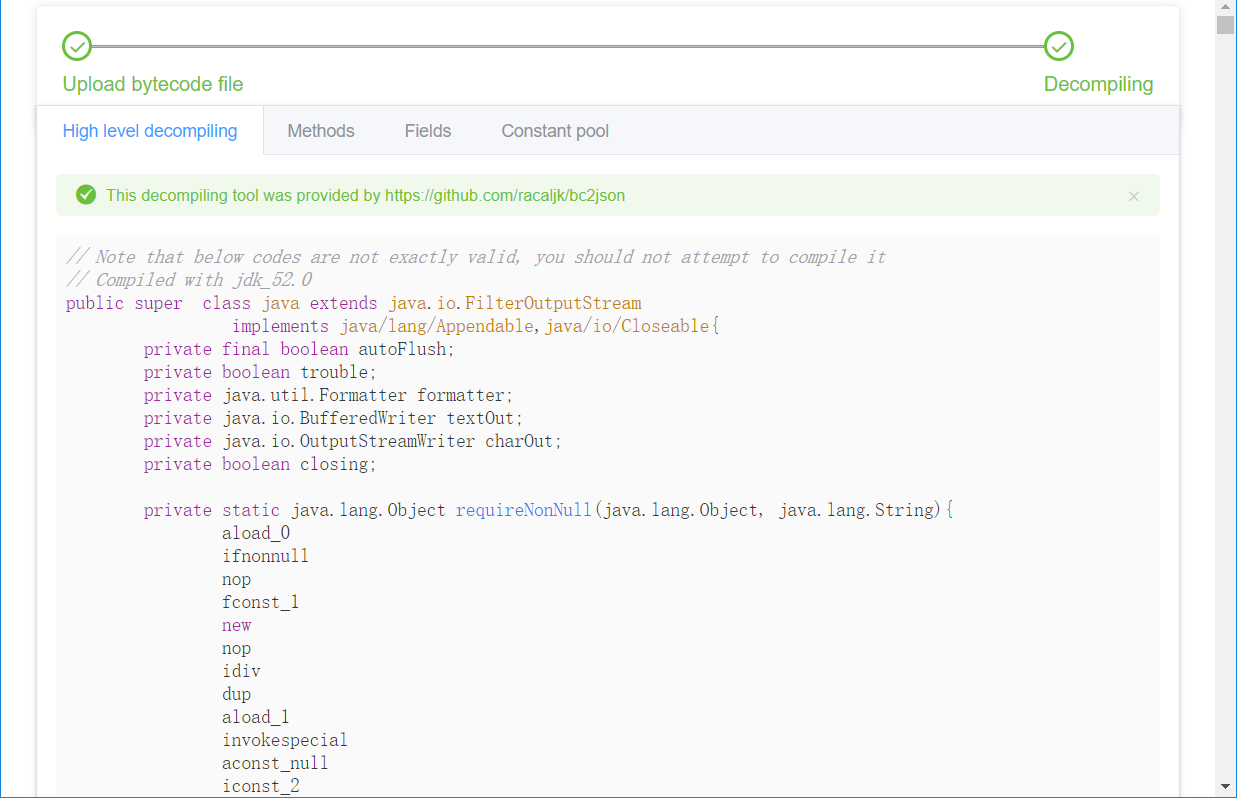
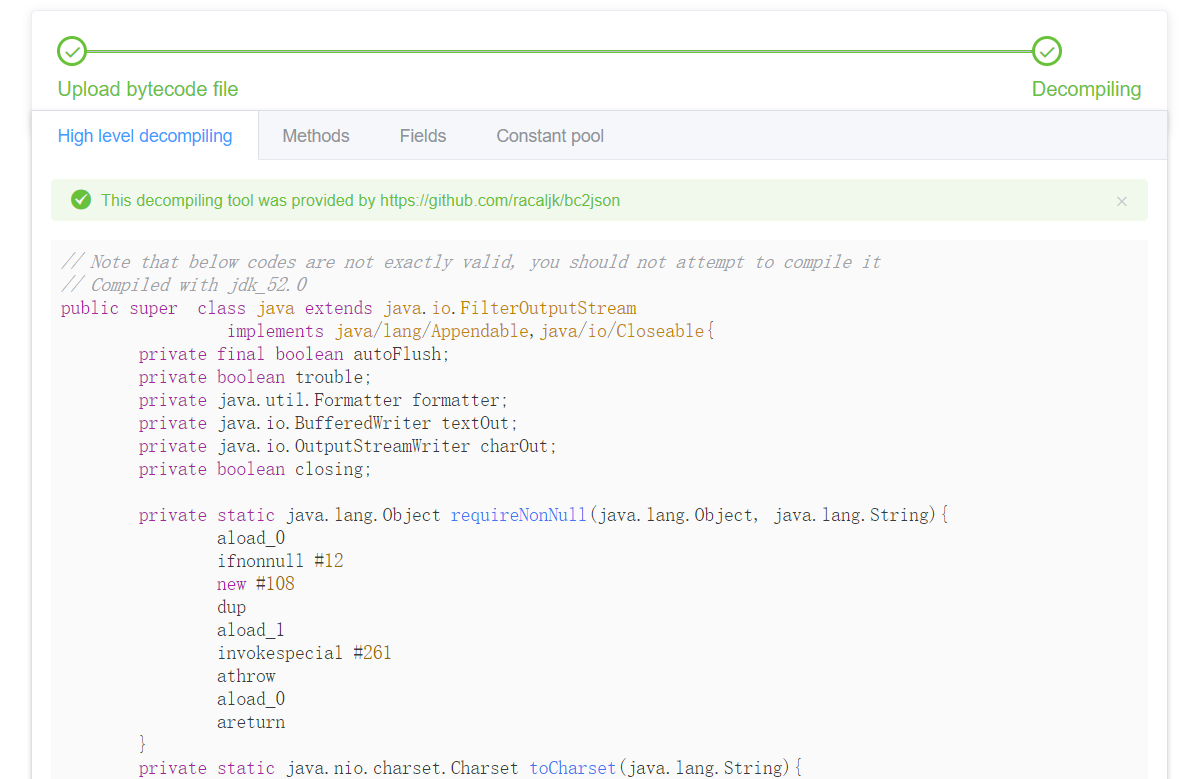
disassembler: use newest disassembler version

diff --git a/README.md b/README.md
@@ -1,5 +1,6 @@
 # bytecode-insecptor
-This is an onlien java bytecode inspector, it visualizes bytecode in different levels to satisfy variaous demands.
+This is an online java bytecode inspector, it disassemble bytecode file and
+visualizes its content in different levels to satisfy various representing demands.
 
 # Screenshot
 ![](screenshot/1.png)
@@ -7,3 +8,5 @@ This is an onlien java bytecode inspector, it visualizes bytecode in different l
 ![](screenshot/2.png)
 
 ![](screenshot/3.png)
+
+![](screenshot/4.png)
